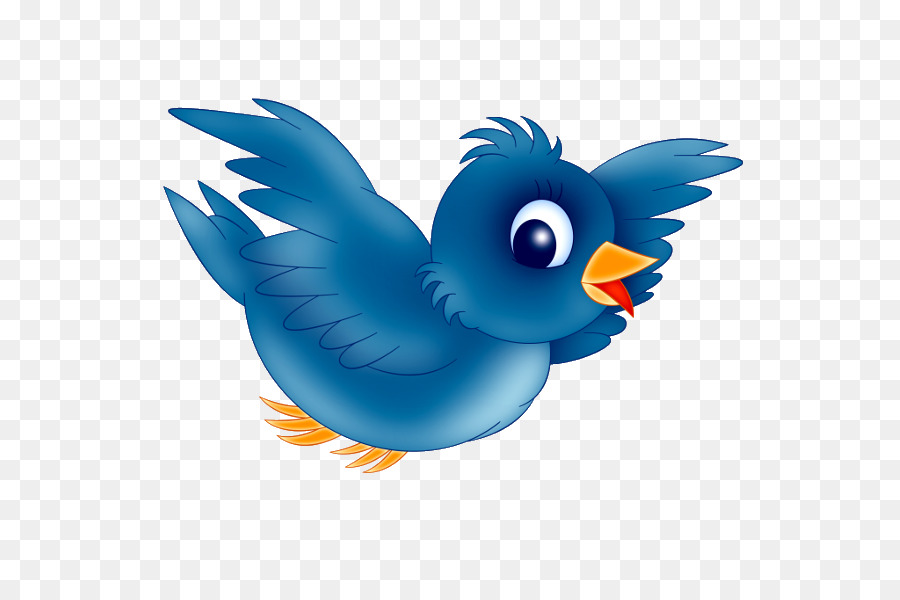
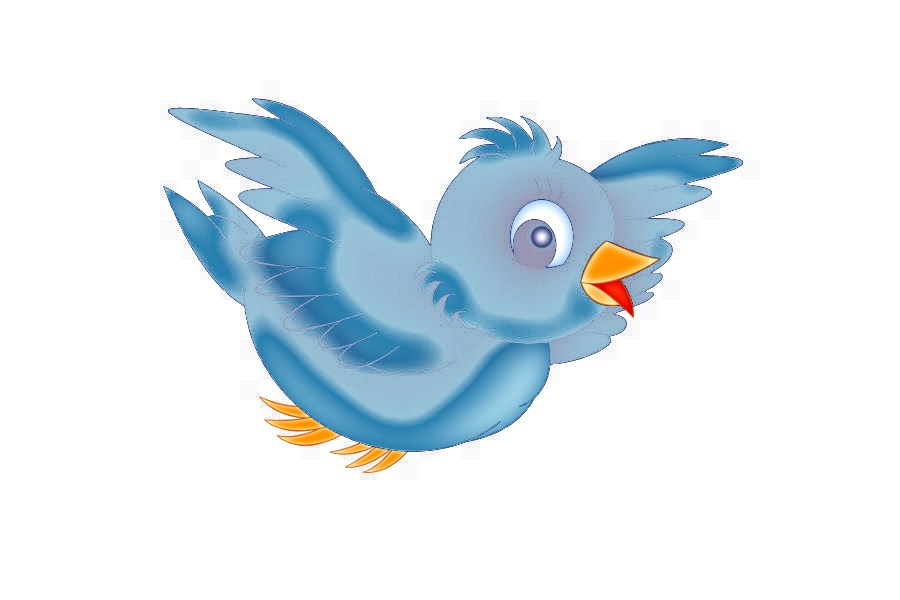
Small changes

Changed region(s): [[0.1867, 0.15, 0.8089, 0.72]]

diff --git a/src/GameFiles/SideScrollView.java b/src/GameFiles/SideScrollView.java
@@ -1,5 +1,6 @@
 package GameFiles;
 
+import java.awt.AlphaComposite;
 import java.awt.Color;
 import java.awt.Component;
 import java.awt.Dimension;
@@ -76,7 +77,7 @@ public class SideScrollView extends View{
 		protected void paintComponent(Graphics g) {
 			if (Mate.caughtUp == false) {
 			super.paintComponent(g);
-			Color transparent = new Color(0, 0, 0, 0);
+			Color transparent = new Color(0, 0, 0, 100);
 			g.setColor(transparent);
 			Graphics2D twoD = (Graphics2D)g;
 			back = (BufferedImage)(createImage(getWidth(), getHeight()));
@@ -84,10 +85,12 @@ public class SideScrollView extends View{
 			backOne.draw(buffer);
 		    backTwo.draw(buffer);
 		    twoD.drawImage(back, null, 0, 0);
-			
-		
+		    AlphaComposite ac = AlphaComposite.getInstance(AlphaComposite.SRC_OVER, .5f);
+		    
+		    
 	    	for (GameObject thing : game) {
-		    	g.drawImage(thing.getScaledImg(), thing.hitbox.xpoints[0] ,thing.hitbox.ypoints[0], Color.gray, this);
+				//((Graphics2D) g).setComposite(ac);
+		    	g.drawImage(thing.getScaledImg(), thing.hitbox.xpoints[0] ,thing.hitbox.ypoints[0], transparent, this);
 	    	}
 	    	g.drawImage(miniMaps[mapNum], frameSize-miniMaps[mapNum].getWidth(), 0, Color.gray,this);
 		}
